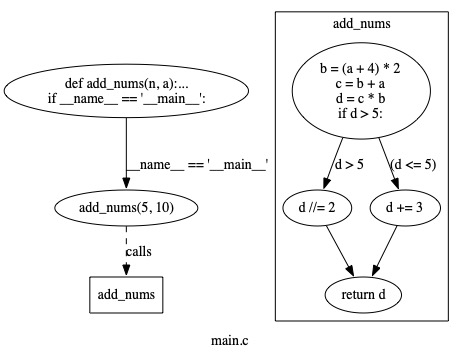
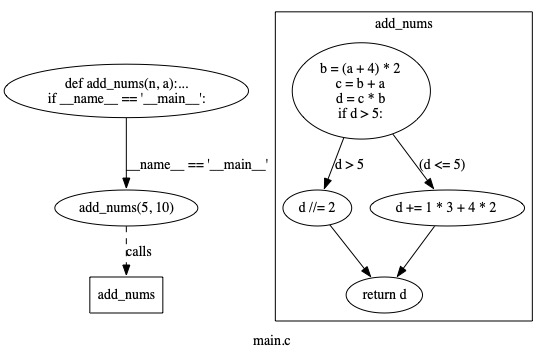
added graphviz features and building out expression parsing

diff --git a/src/hls.py b/src/hls.py
@@ -1,5 +1,5 @@
 import json
-import graphviz
+import graphviz as gv
 import re
 from collections import deque
 import ast
@@ -7,6 +7,11 @@ import ast
 from cfg.staticfg.builder import CFGBuilder
 from hls_instrument import instrument_and_run
 from cfg.ast_utils import ASTUtils
+
+path = '/Users/PatrickMcEwen/high_level_synthesis/venv/codesign/src/cfg/benchmarks/'
+benchmark = 'simple'
+expr_to_node = {}
+func_ref = {}
 
 op2sym_map = {
     "And": "and",
@@ -106,15 +111,9 @@ power = {
     "Regs": [7.936518e-03, 1.062977e-03, 8.999495e-03, 8.999495e-03, 7.395312e-05],
 }
 
-class Node:
-    def __init__(self) -> None:
-        self.start = -1
-        self.end = -1
-        self.hw = {}
-
 class HardwareModel:
 
-    def __init__(self,bandwidth,loop_counts={},var_sizes={}):
+    def __init__(self,id,bandwidth,loop_counts={},var_sizes={}):
         self.max_bw = bandwidth
         self.bw_avail = bandwidth
 
@@ -134,7 +133,7 @@ class HardwareModel:
         self.hw_utilized["Other"] = 0
         self.loop_variables = loop_counts
         self.var_sizes = var_sizes
-        self.blocks = {}
+        self.id = id
 
 
         for key in op2sym_map.keys():
@@ -154,40 +153,62 @@ class HardwareModel:
                    utilized=str(self.hw_utilized))
         return s
 
-    def get_latency(self,expr : ast.AST):
-        name = ASTUtils.expr_to_opname(expr)
-        if name is None:
-            return None,0.0
-        else:
-            return name,latency[name]
-
     def parse_expr(self, expr):
-        print(expr)
+        #print(expr, type(expr))
+        expr_to_node[expr] = self.id
         if type(expr) == ast.Name: 
             self.hw_allocated["Regs"] += 1
-        elif isinstance(expr,ast.operator):
-            print("hi", expr)
-            self.hw_allocated[ASTUtils.operator_to_opname(expr)] += 1
-            self.cycles += self.get_latency(expr)[1]
         else:
-            for sub_expr in ASTUtils.get_sub_expr(expr):
-                self.parse_expr(sub_expr)
-        
+            name = ASTUtils.expr_to_opname(expr)
+            if name:
+                self.hw_allocated[name] += 1
+                self.cycles += latency[name]
+            else:
+                for sub_expr in ASTUtils.get_sub_expr(expr):
+                    self.parse_expr(sub_expr)
+        if type(expr) == ast.FunctionDef:
+            print(expr.body[0])
+            func_ref[expr.name] = expr
+
+def make_visual(cfg, models):
+    graph = gv.Digraph()
+    for node in cfg:
+        hw = models[node.id].hw_allocated
+        s = ""
+        for i in hw:
+            if hw[i] > 0:
+                s += str(i) + ": " + str(hw[i]) + ", "
+        if len(s) != 0:
+            s = node.get_source() + "\n" + str(node.id) + ": [" + s[:-2] + "]" + "\n cycles: " + str(models[node.id].cycles)
+        print(s)
+        graph.node(str(node.id), s)
+        for exit in node.exits:
+            graph.edge(str(node.id), str(exit.target.id))
+        for f in node.func_calls:
+            if f in func_ref:
+                graph.edge(str(node.id), str(expr_to_node[func_ref[f].body[0]]))
+    graph.render(path + 'pictures/' + benchmark + "_hw", view = True, format='jpeg')
 
 def main():
     # note: must specify path to run the program, this is just an example path
-    path = '/Users/PatrickMcEwen/high_level_synthesis/venv/codesign/src/cfg/benchmarks/'
-    benchmark = 'simple'
+    global path, benchmark, func_to_node, expr_to_node
     cfg = CFGBuilder().build_from_file('main.c', path + 'nonai_models/' + benchmark + '.py')
     cfg.build_visual(path + 'pictures/' + benchmark, 'jpeg', show = False)
     models = {}
+    print(cfg.entryblock)
+    print([block.id for block in cfg.__iter__()])
+
     for node in cfg:
-        #print(node.predecessors, node.exits)
-        models[node] = HardwareModel(0)
+        print([exit.target.id for exit in node.exits])
+        print(node.func_calls)
+        models[node.id] = HardwareModel(node.id, 0)
         for statement in node.statements:
-            models[node].parse_expr(statement)
-            #num_cycles, hw_need, energy_need = assign(statement)
-        print(models[node].hw_allocated)
+            models[node.id].parse_expr(statement)
+        print("Node", node.id, models[node.id].hw_allocated)
+    #build_visual(cfg, models, path + 'pictures/' + benchmark, 'jpeg')
+    make_visual(cfg, models)
+    print(func_ref)
+    print(expr_to_node)
     return 0
 
 if __name__ == "__main__":

diff --git a/src/cfg/ast_utils.py b/src/cfg/ast_utils.py
@@ -65,6 +65,8 @@ class ASTUtils:
             return None
         elif type(op) == ast.Div  or type(op) == ast.FloorDiv:
             return "FloorDiv"
+        elif type(op) == ast.Mod:
+            return "Mod"
         else:
             raise Exception("unhandled binary operator <%s>" % op)
 
@@ -92,8 +94,14 @@ class ASTUtils:
             return "GtE"
         elif type(op) == ast.Gt:
             return "Gt"
-
-
+        elif type(op) == ast.Is:
+            return None
+        elif type(op) == ast.IsNot:
+            return None
+        elif type(op) == ast.In:
+            return None
+        elif type(op) == ast.NotIn:
+            return None
         else:
             raise Exception("unhandled comparator op <%s>" % op)
 
@@ -117,7 +125,6 @@ class ASTUtils:
         elif isinstance(expr,ast.unaryop):
             return ASTUtils.unaryop_to_opname(expr)
 
-
         elif isinstance(expr,ast.cmpop):
             return ASTUtils.cmpop_to_opname(expr)
 
@@ -125,26 +132,19 @@ class ASTUtils:
             return ASTUtils.operator_to_opname(expr)
 
         elif isinstance(expr, ast.BinOp):
-            return ASTUtils.operator_to_opname(expr.op)
+            return None
 
         elif isinstance(expr, ast.UnaryOp):
-            return ASTUtils.unaryop_to_opname(expr.op)
+            return None
 
         elif type(expr) == ast.BoolOp:
-            return ASTUtils.boolop_to_opname(expr.op)
+            return None
 
         elif type(expr) == ast.Compare:
-            assert(len(expr.ops) == 1)
-            op = expr.ops[0]
-            if type(op) == ast.UnaryOp:
-                return ASTUtils.unaryop_to_opname(expr.ops[0])
-            elif isinstance(op,ast.cmpop):
-                return ASTUtils.cmpop_to_opname(expr.ops[0])
-            else:
-                raise Exception("unhandled compare operator <%s>" % expr.op)
+            return None
                 
         elif type(expr) == ast.AugAssign:
-            return ASTUtils.operator_to_opname(expr.op) 
+            return None 
  
         elif type(expr) == ast.Load:
             print("[warn] ignoring loads")
@@ -194,7 +194,8 @@ class ASTUtils:
         elif type(expr) == ast.keyword:
             return None  
         else:
-            raise Exception("unhandled expression <%s>" % expr)
+            print("unhandled expression <%s>" % expr)
+            return None
     
     @staticmethod
     def get_sub_expr(expr: ast.AST):
@@ -238,7 +239,9 @@ class ASTUtils:
             return [expr.subject] + expr.cases
         elif type(expr) == ast.Raise:
             return [expr.exc, expr.cause]
+        elif type(expr) == ast.Compare:
+            return [expr.left] + expr.ops + expr.comparators
         else:
-            #raise Exception("unhandled expresssion <%s>" % expr)
+            if expr: print("unhandled (sub) expresssion <%s>" % expr)
             return []
 

diff --git a/src/cfg/benchmarks/nonai_models/simple.py b/src/cfg/benchmarks/nonai_models/simple.py
@@ -6,7 +6,7 @@ def add_nums(n, a):
     if d > 5:
         d //= 2
     else:
-        d += 3
+        d += 1 * 3 + 4 * 2
     return d
 
 if __name__ == "__main__":
